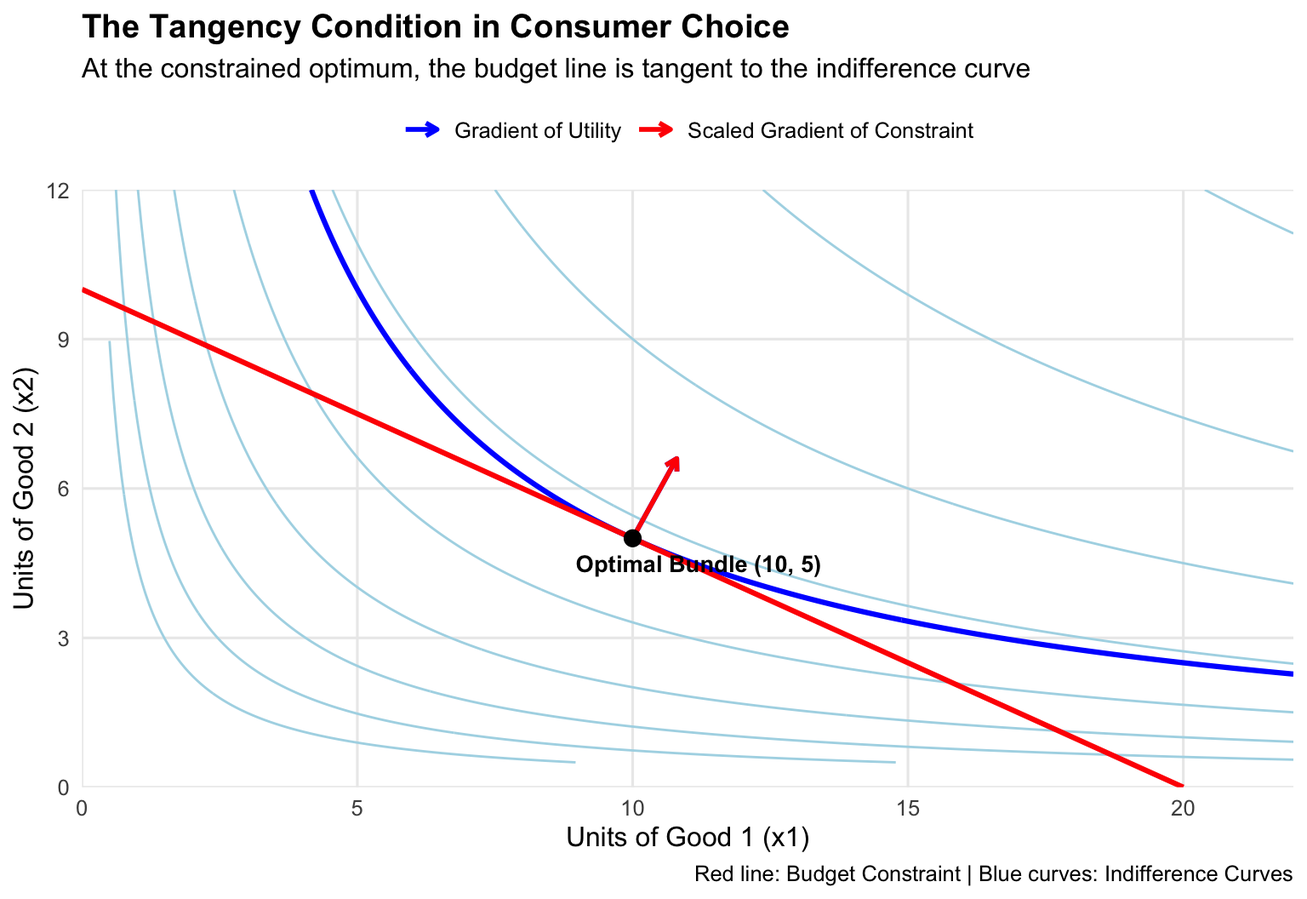
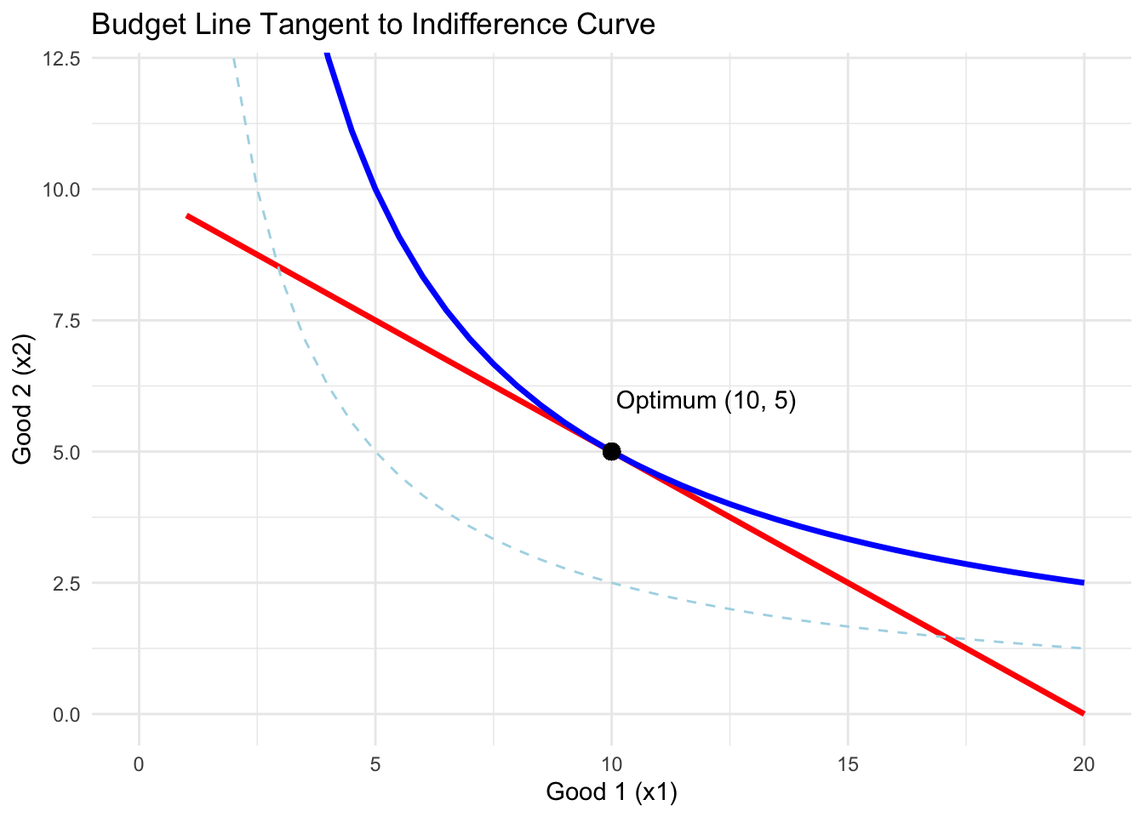
1

diff --git a/docs/blog/posts/post1/Untitled.html b/docs/blog/posts/post1/Untitled.html
@@ -8,7 +8,7 @@
 
 <meta name="dcterms.date" content="2026-09-12">
 
-<title>The Geometry of Scarcity: Demystifying Lagrange Multipliers – Student Name</title>
+<title>Why Lagrange Multipliers Actually Make Sense – Student Name</title>
 <style>
 code{white-space: pre-wrap;}
 span.smallcaps{font-variant: small-caps;}
@@ -185,7 +185,7 @@ window.Quarto = {
 
 <header id="title-block-header" class="quarto-title-block default">
 <div class="quarto-title">
-<h1 class="title">The Geometry of Scarcity: Demystifying Lagrange Multipliers</h1>
+<h1 class="title">Why Lagrange Multipliers Actually Make Sense</h1>
   <div class="quarto-categories">
     <div class="quarto-category">personal</div>
     <div class="quarto-category">data-science</div>
@@ -212,90 +212,51 @@ window.Quarto = {
 </header>
 
 
-<p>If you took multivariable calculus or intermediate microeconomics, you almost certainly ran into constrained optimization. Whether you were trying to maximize utility with a tight budget or minimize production costs subject to an output target, your professor probably gave you a standard recipe: take your objective function, set up an auxiliary equation with an extra variable <span class="math inline">\(\lambda\)</span>, take partial derivatives, set them to zero, and solve.</p>
-<p>When I first learned this, it felt like an arbitrary algebraic trick. Why does introducing a phantom variable suddenly turn a difficult constrained problem into a simple unconstrained one? And what on earth is <span class="math inline">\(\lambda\)</span> supposed to mean?</p>
-<p>To understand what the Lagrangian is actually doing, it helps to throw away the algebra for a moment and picture a topographic map.</p>
-<p>Imagine hiking up a hill. Your elevation at any point <span class="math inline">\((x_1, x_2)\)</span> is determined by the mountain’s height <span class="math inline">\(f(x_1, x_2)\)</span>, and you want to reach the highest possible point. But there is a catch: you are legally required to stay on a paved walking path given by the constraint <span class="math inline">\(g(x_1, x_2) = c\)</span>.</p>
-<p>Now, imagine walking along that path. If the path cuts across an elevation contour line at an angle, you are either going uphill or downhill. As long as the path continues to cross contour lines, you can gain elevation simply by taking another step forward.</p>
-<p>The only point where you cannot climb any higher while staying on the path is where the path runs perfectly parallel to an elevation contour line. At that exact point, stepping either forward or backward sends you downhill. The path and the contour line touch, sharing a single tangent.</p>
-<p>In vector calculus, the gradient vector <span class="math inline">\(\nabla f = (\frac{\partial f}{\partial x_1}, \frac{\partial f}{\partial x_2})\)</span> points in the direction of steepest ascent, which is always perpendicular to the contour lines. Similarly, <span class="math inline">\(\nabla g\)</span> is perpendicular to the path. Since the path and the contour line are tangent at the optimum, their perpendicular vectors must point in the exact same direction:</p>
-<p><span class="math display">\[\nabla f(x_1^*, x_2^*) = \lambda \nabla g(x_1^*, x_2^*)\]</span></p>
-<p>Here, <span class="math inline">\(\lambda\)</span> is not magic. It is simply the scalar multiplier that stretches or shrinks one gradient vector to match the length of the other. The Lagrangian function <span class="math inline">\(\mathcal{L}\)</span> is just an algebraic shorthand designed so its first-order conditions enforce this exact geometric tangency.</p>
-<p>The technique was originally developed in 1788 by Joseph-Louis Lagrange in his classic treatise <em>Mécanique Analytique</em>. Lagrange was solving physical problems, such as particles constrained to move along rigid surfaces. More than a century later, economists—most notably Paul Samuelson in his 1947 <em>Foundations of Economic Analysis</em>—realized that Lagrange had handed economics its most powerful mathematical tool. Economics, after all, is defined by scarcity.</p>
-<p>In economics, <span class="math inline">\(\lambda\)</span> earns a name of its own: the shadow price. By the Envelope Theorem:</p>
-<p><span class="math display">\[\lambda^* = \frac{\partial f^*(c)}{\partial c}\]</span></p>
-<p>This tells us that <span class="math inline">\(\lambda^*\)</span> measures the marginal increase in our maximized objective when the constraint is relaxed by one unit. In consumer choice, <span class="math inline">\(\lambda^*\)</span> is the marginal utility of income—how many extra utils you would get from an extra dollar of budget. In a firm’s cost-minimization problem, <span class="math inline">\(\lambda^*\)</span> is the marginal cost of producing one additional unit.</p>
-<p>To see this tangency clearly, we can simulate a standard consumer choice problem in R: maximizing <span class="math inline">\(U(x_1, x_2) = \ln(x_1) + \ln(x_2)\)</span> subject to <span class="math inline">\(2x_1 + 4x_2 = 40\)</span>. At the optimal bundle <span class="math inline">\((10, 5)\)</span>, the budget line is tangent to the indifference curve, and the gradient vectors point in identical directions.</p>
+<p>When I first saw Lagrange multipliers in microeconomics, it made zero sense to me. The textbook basically said: take your utility function, add this random Greek letter <span class="math inline">\(\lambda\)</span> multiplied by your budget constraint, set every derivative to zero, and somehow you get the right answer.</p>
+<p>It felt like a cheap math trick. Why are we adding an imaginary variable <span class="math inline">\(\lambda\)</span>? And why does taking derivatives of this weird new equation give us the optimal basket of goods?</p>
+<p>It only clicked for me once I stopped looking at the algebra and started picturing a simple graph.</p>
+<p>Think about hiking on a hill. You want to get as high up as possible (maximize your utility <span class="math inline">\(U(x_1, x_2)\)</span>). But there is a fence across the hill that you cannot cross (your budget constraint).</p>
+<p>If you walk along the fence and cross an elevation contour line at an angle, you are still going uphill or downhill. That means you can always reach a higher point just by taking another step along the fence.</p>
+<p>The only point where you cannot climb any higher is where the fence just barely touches an elevation contour line without crossing it. In other words, the fence and the contour curve are perfectly tangent.</p>
+<p>At that exact spot, the slope of your budget line equals the slope of your indifference curve:</p>
+<p><span class="math display">\[\frac{MU_1}{MU_2} = \frac{p_1}{p_2}\]</span></p>
+<p>The multiplier <span class="math inline">\(\lambda\)</span> is just the number that balances the marginal benefit of each good with its price:</p>
+<p><span class="math display">\[\frac{MU_1}{p_1} = \frac{MU_2}{p_2} = \lambda\]</span></p>
+<p>In economics, <span class="math inline">\(\lambda\)</span> is called the shadow price. It tells you how much extra utility you would get if your budget increased by one dollar.</p>
+<p>To see this clearly, here is a simple plot of a consumer maximizing utility <span class="math inline">\(U = x_1 \cdot x_2\)</span> with a budget constraint <span class="math inline">\(2x_1 + 4x_2 = 40\)</span>. The optimal choice is <span class="math inline">\(x_1 = 10\)</span> and <span class="math inline">\(x_2 = 5\)</span>.</p>
 <div class="cell">
 <div class="sourceCode cell-code" id="cb1"><pre class="sourceCode r code-with-copy"><code class="sourceCode r"><span id="cb1-1"><a href="#cb1-1" aria-hidden="true" tabindex="-1"></a><span class="fu">library</span>(ggplot2)</span>
-<span id="cb1-2"><a href="#cb1-2" aria-hidden="true" tabindex="-1"></a><span class="fu">library</span>(dplyr)</span>
-<span id="cb1-3"><a href="#cb1-3" aria-hidden="true" tabindex="-1"></a></span>
-<span id="cb1-4"><a href="#cb1-4" aria-hidden="true" tabindex="-1"></a>grid_df <span class="ot">&lt;-</span> <span class="fu">expand.grid</span>(</span>
-<span id="cb1-5"><a href="#cb1-5" aria-hidden="true" tabindex="-1"></a>  <span class="at">x1 =</span> <span class="fu">seq</span>(<span class="fl">0.5</span>, <span class="dv">22</span>, <span class="at">length.out =</span> <span class="dv">300</span>),</span>
-<span id="cb1-6"><a href="#cb1-6" aria-hidden="true" tabindex="-1"></a>  <span class="at">x2 =</span> <span class="fu">seq</span>(<span class="fl">0.5</span>, <span class="dv">12</span>, <span class="at">length.out =</span> <span class="dv">300</span>)</span>
-<span id="cb1-7"><a href="#cb1-7" aria-hidden="true" tabindex="-1"></a>) <span class="sc">%&gt;%</span></span>
-<span id="cb1-8"><a href="#cb1-8" aria-hidden="true" tabindex="-1"></a>  <span class="fu">mutate</span>(<span class="at">U =</span> <span class="fu">log</span>(x1) <span class="sc">+</span> <span class="fu">log</span>(x2))</span>
-<span id="cb1-9"><a href="#cb1-9" aria-hidden="true" tabindex="-1"></a></span>
-<span id="cb1-10"><a href="#cb1-10" aria-hidden="true" tabindex="-1"></a>opt_x1 <span class="ot">&lt;-</span> <span class="dv">10</span></span>
-<span id="cb1-11"><a href="#cb1-11" aria-hidden="true" tabindex="-1"></a>opt_x2 <span class="ot">&lt;-</span> <span class="dv">5</span></span>
-<span id="cb1-12"><a href="#cb1-12" aria-hidden="true" tabindex="-1"></a>opt_U  <span class="ot">&lt;-</span> <span class="fu">log</span>(opt_x1) <span class="sc">+</span> <span class="fu">log</span>(opt_x2)</span>
-<span id="cb1-13"><a href="#cb1-13" aria-hidden="true" tabindex="-1"></a></span>
-<span id="cb1-14"><a href="#cb1-14" aria-hidden="true" tabindex="-1"></a>budget_df <span class="ot">&lt;-</span> <span class="fu">data.frame</span>(</span>
-<span id="cb1-15"><a href="#cb1-15" aria-hidden="true" tabindex="-1"></a>  <span class="at">x1 =</span> <span class="fu">seq</span>(<span class="dv">0</span>, <span class="dv">20</span>, <span class="at">length.out =</span> <span class="dv">100</span>)</span>
-<span id="cb1-16"><a href="#cb1-16" aria-hidden="true" tabindex="-1"></a>) <span class="sc">%&gt;%</span></span>
-<span id="cb1-17"><a href="#cb1-17" aria-hidden="true" tabindex="-1"></a>  <span class="fu">mutate</span>(<span class="at">x2 =</span> (<span class="dv">40</span> <span class="sc">-</span> <span class="dv">2</span> <span class="sc">*</span> x1) <span class="sc">/</span> <span class="dv">4</span>)</span>
-<span id="cb1-18"><a href="#cb1-18" aria-hidden="true" tabindex="-1"></a></span>
-<span id="cb1-19"><a href="#cb1-19" aria-hidden="true" tabindex="-1"></a>grad_df <span class="ot">&lt;-</span> <span class="fu">data.frame</span>(</span>
-<span id="cb1-20"><a href="#cb1-20" aria-hidden="true" tabindex="-1"></a>  <span class="at">x    =</span> <span class="fu">c</span>(opt_x1, opt_x1),</span>
-<span id="cb1-21"><a href="#cb1-21" aria-hidden="true" tabindex="-1"></a>  <span class="at">y    =</span> <span class="fu">c</span>(opt_x2, opt_x2),</span>
-<span id="cb1-22"><a href="#cb1-22" aria-hidden="true" tabindex="-1"></a>  <span class="at">xend =</span> <span class="fu">c</span>(opt_x1 <span class="sc">+</span> <span class="fl">0.8</span>, opt_x1 <span class="sc">+</span> <span class="fl">0.8</span>),</span>
-<span id="cb1-23"><a href="#cb1-23" aria-hidden="true" tabindex="-1"></a>  <span class="at">yend =</span> <span class="fu">c</span>(opt_x2 <span class="sc">+</span> <span class="fl">1.6</span>, opt_x2 <span class="sc">+</span> <span class="fl">1.6</span>),</span>
-<span id="cb1-24"><a href="#cb1-24" aria-hidden="true" tabindex="-1"></a>  <span class="at">Vector =</span> <span class="fu">c</span>(<span class="st">"Gradient of Utility"</span>, <span class="st">"Scaled Gradient of Constraint"</span>)</span>
-<span id="cb1-25"><a href="#cb1-25" aria-hidden="true" tabindex="-1"></a>)</span>
-<span id="cb1-26"><a href="#cb1-26" aria-hidden="true" tabindex="-1"></a></span>
-<span id="cb1-27"><a href="#cb1-27" aria-hidden="true" tabindex="-1"></a>p <span class="ot">&lt;-</span> <span class="fu">ggplot</span>() <span class="sc">+</span></span>
-<span id="cb1-28"><a href="#cb1-28" aria-hidden="true" tabindex="-1"></a>  <span class="fu">geom_contour</span>(<span class="at">data =</span> grid_df, <span class="fu">aes</span>(<span class="at">x =</span> x1, <span class="at">y =</span> x2, <span class="at">z =</span> U),</span>
-<span id="cb1-29"><a href="#cb1-29" aria-hidden="true" tabindex="-1"></a>               <span class="at">breaks =</span> <span class="fu">seq</span>(<span class="fl">1.5</span>, <span class="fl">5.5</span>, <span class="at">by =</span> <span class="fl">0.5</span>), <span class="at">color =</span> <span class="st">"lightblue"</span>, <span class="at">linewidth =</span> <span class="fl">0.5</span>) <span class="sc">+</span></span>
-<span id="cb1-30"><a href="#cb1-30" aria-hidden="true" tabindex="-1"></a>  <span class="fu">geom_contour</span>(<span class="at">data =</span> grid_df, <span class="fu">aes</span>(<span class="at">x =</span> x1, <span class="at">y =</span> x2, <span class="at">z =</span> U),</span>
-<span id="cb1-31"><a href="#cb1-31" aria-hidden="true" tabindex="-1"></a>               <span class="at">breaks =</span> opt_U, <span class="at">color =</span> <span class="st">"blue"</span>, <span class="at">linewidth =</span> <span class="fl">1.1</span>) <span class="sc">+</span></span>
-<span id="cb1-32"><a href="#cb1-32" aria-hidden="true" tabindex="-1"></a>  <span class="fu">geom_line</span>(<span class="at">data =</span> budget_df, <span class="fu">aes</span>(<span class="at">x =</span> x1, <span class="at">y =</span> x2), </span>
-<span id="cb1-33"><a href="#cb1-33" aria-hidden="true" tabindex="-1"></a>            <span class="at">color =</span> <span class="st">"red"</span>, <span class="at">linewidth =</span> <span class="fl">1.1</span>) <span class="sc">+</span></span>
-<span id="cb1-34"><a href="#cb1-34" aria-hidden="true" tabindex="-1"></a>  <span class="fu">geom_segment</span>(<span class="at">data =</span> grad_df, <span class="fu">aes</span>(<span class="at">x =</span> x, <span class="at">y =</span> y, <span class="at">xend =</span> xend, <span class="at">yend =</span> yend, <span class="at">color =</span> Vector),</span>
-<span id="cb1-35"><a href="#cb1-35" aria-hidden="true" tabindex="-1"></a>               <span class="at">arrow =</span> <span class="fu">arrow</span>(<span class="at">length =</span> <span class="fu">unit</span>(<span class="fl">0.2</span>, <span class="st">"cm"</span>)), <span class="at">linewidth =</span> <span class="dv">1</span>) <span class="sc">+</span></span>
-<span id="cb1-36"><a href="#cb1-36" aria-hidden="true" tabindex="-1"></a>  <span class="fu">geom_point</span>(<span class="fu">aes</span>(<span class="at">x =</span> opt_x1, <span class="at">y =</span> opt_x2), <span class="at">color =</span> <span class="st">"black"</span>, <span class="at">size =</span> <span class="dv">3</span>) <span class="sc">+</span></span>
-<span id="cb1-37"><a href="#cb1-37" aria-hidden="true" tabindex="-1"></a>  <span class="fu">annotate</span>(<span class="st">"text"</span>, <span class="at">x =</span> opt_x1 <span class="sc">+</span> <span class="fl">1.2</span>, <span class="at">y =</span> opt_x2 <span class="sc">-</span> <span class="fl">0.5</span>, </span>
-<span id="cb1-38"><a href="#cb1-38" aria-hidden="true" tabindex="-1"></a>           <span class="at">label =</span> <span class="st">"Optimal Bundle (10, 5)"</span>, <span class="at">fontface =</span> <span class="st">"bold"</span>, <span class="at">size =</span> <span class="fl">3.6</span>) <span class="sc">+</span></span>
-<span id="cb1-39"><a href="#cb1-39" aria-hidden="true" tabindex="-1"></a>  <span class="fu">scale_color_manual</span>(<span class="at">values =</span> <span class="fu">c</span>(<span class="st">"Gradient of Utility"</span> <span class="ot">=</span> <span class="st">"blue"</span>, </span>
-<span id="cb1-40"><a href="#cb1-40" aria-hidden="true" tabindex="-1"></a>                                <span class="st">"Scaled Gradient of Constraint"</span> <span class="ot">=</span> <span class="st">"red"</span>)) <span class="sc">+</span></span>
-<span id="cb1-41"><a href="#cb1-41" aria-hidden="true" tabindex="-1"></a>  <span class="fu">coord_cartesian</span>(<span class="at">xlim =</span> <span class="fu">c</span>(<span class="dv">0</span>, <span class="dv">22</span>), <span class="at">ylim =</span> <span class="fu">c</span>(<span class="dv">0</span>, <span class="dv">12</span>), <span class="at">expand =</span> <span class="cn">FALSE</span>) <span class="sc">+</span></span>
-<span id="cb1-42"><a href="#cb1-42" aria-hidden="true" tabindex="-1"></a>  <span class="fu">labs</span>(</span>
-<span id="cb1-43"><a href="#cb1-43" aria-hidden="true" tabindex="-1"></a>    <span class="at">title =</span> <span class="st">"The Tangency Condition in Consumer Choice"</span>,</span>
-<span id="cb1-44"><a href="#cb1-44" aria-hidden="true" tabindex="-1"></a>    <span class="at">subtitle =</span> <span class="st">"At the constrained optimum, the budget line is tangent to the indifference curve"</span>,</span>
-<span id="cb1-45"><a href="#cb1-45" aria-hidden="true" tabindex="-1"></a>    <span class="at">x =</span> <span class="st">"Units of Good 1 (x1)"</span>,</span>
-<span id="cb1-46"><a href="#cb1-46" aria-hidden="true" tabindex="-1"></a>    <span class="at">y =</span> <span class="st">"Units of Good 2 (x2)"</span>,</span>
-<span id="cb1-47"><a href="#cb1-47" aria-hidden="true" tabindex="-1"></a>    <span class="at">color =</span> <span class="cn">NULL</span>,</span>
-<span id="cb1-48"><a href="#cb1-48" aria-hidden="true" tabindex="-1"></a>    <span class="at">caption =</span> <span class="st">"Red line: Budget Constraint | Blue curves: Indifference Curves"</span></span>
-<span id="cb1-49"><a href="#cb1-49" aria-hidden="true" tabindex="-1"></a>  ) <span class="sc">+</span></span>
-<span id="cb1-50"><a href="#cb1-50" aria-hidden="true" tabindex="-1"></a>  <span class="fu">theme_minimal</span>(<span class="at">base_size =</span> <span class="dv">12</span>) <span class="sc">+</span></span>
-<span id="cb1-51"><a href="#cb1-51" aria-hidden="true" tabindex="-1"></a>  <span class="fu">theme</span>(</span>
-<span id="cb1-52"><a href="#cb1-52" aria-hidden="true" tabindex="-1"></a>    <span class="at">legend.position =</span> <span class="st">"top"</span>,</span>
-<span id="cb1-53"><a href="#cb1-53" aria-hidden="true" tabindex="-1"></a>    <span class="at">plot.title =</span> <span class="fu">element_text</span>(<span class="at">face =</span> <span class="st">"bold"</span>),</span>
-<span id="cb1-54"><a href="#cb1-54" aria-hidden="true" tabindex="-1"></a>    <span class="at">panel.grid.minor =</span> <span class="fu">element_blank</span>()</span>
-<span id="cb1-55"><a href="#cb1-55" aria-hidden="true" tabindex="-1"></a>  )</span>
-<span id="cb1-56"><a href="#cb1-56" aria-hidden="true" tabindex="-1"></a></span>
-<span id="cb1-57"><a href="#cb1-57" aria-hidden="true" tabindex="-1"></a><span class="fu">dir.create</span>(<span class="st">"figures"</span>, <span class="at">showWarnings =</span> <span class="cn">FALSE</span>)</span>
-<span id="cb1-58"><a href="#cb1-58" aria-hidden="true" tabindex="-1"></a><span class="fu">ggsave</span>(<span class="st">"figures/lagrange_tangency.png"</span>, <span class="at">plot =</span> p, <span class="at">width =</span> <span class="fl">7.5</span>, <span class="at">height =</span> <span class="fl">5.5</span>, <span class="at">dpi =</span> <span class="dv">300</span>)</span>
-<span id="cb1-59"><a href="#cb1-59" aria-hidden="true" tabindex="-1"></a></span>
-<span id="cb1-60"><a href="#cb1-60" aria-hidden="true" tabindex="-1"></a><span class="fu">print</span>(p)</span></code><button title="Copy to Clipboard" class="code-copy-button"><i class="bi"></i></button></pre></div>
+<span id="cb1-2"><a href="#cb1-2" aria-hidden="true" tabindex="-1"></a></span>
+<span id="cb1-3"><a href="#cb1-3" aria-hidden="true" tabindex="-1"></a>x1 <span class="ot">&lt;-</span> <span class="fu">seq</span>(<span class="dv">1</span>, <span class="dv">20</span>, <span class="at">by =</span> <span class="fl">0.5</span>)</span>
+<span id="cb1-4"><a href="#cb1-4" aria-hidden="true" tabindex="-1"></a></span>
+<span id="cb1-5"><a href="#cb1-5" aria-hidden="true" tabindex="-1"></a>budget <span class="ot">&lt;-</span> (<span class="dv">40</span> <span class="sc">-</span> <span class="dv">2</span> <span class="sc">*</span> x1) <span class="sc">/</span> <span class="dv">4</span></span>
+<span id="cb1-6"><a href="#cb1-6" aria-hidden="true" tabindex="-1"></a>optimal_curve <span class="ot">&lt;-</span> <span class="dv">50</span> <span class="sc">/</span> x1</span>
+<span id="cb1-7"><a href="#cb1-7" aria-hidden="true" tabindex="-1"></a>lower_curve <span class="ot">&lt;-</span> <span class="dv">25</span> <span class="sc">/</span> x1</span>
+<span id="cb1-8"><a href="#cb1-8" aria-hidden="true" tabindex="-1"></a></span>
+<span id="cb1-9"><a href="#cb1-9" aria-hidden="true" tabindex="-1"></a>df <span class="ot">&lt;-</span> <span class="fu">data.frame</span>(x1, budget, optimal_curve, lower_curve)</span>
+<span id="cb1-10"><a href="#cb1-10" aria-hidden="true" tabindex="-1"></a></span>
+<span id="cb1-11"><a href="#cb1-11" aria-hidden="true" tabindex="-1"></a><span class="fu">ggplot</span>(df, <span class="fu">aes</span>(<span class="at">x =</span> x1)) <span class="sc">+</span></span>
+<span id="cb1-12"><a href="#cb1-12" aria-hidden="true" tabindex="-1"></a>  <span class="fu">geom_line</span>(<span class="fu">aes</span>(<span class="at">y =</span> budget), <span class="at">color =</span> <span class="st">"red"</span>, <span class="at">size =</span> <span class="fl">1.2</span>) <span class="sc">+</span></span>
+<span id="cb1-13"><a href="#cb1-13" aria-hidden="true" tabindex="-1"></a>  <span class="fu">geom_line</span>(<span class="fu">aes</span>(<span class="at">y =</span> optimal_curve), <span class="at">color =</span> <span class="st">"blue"</span>, <span class="at">size =</span> <span class="fl">1.2</span>) <span class="sc">+</span></span>
+<span id="cb1-14"><a href="#cb1-14" aria-hidden="true" tabindex="-1"></a>  <span class="fu">geom_line</span>(<span class="fu">aes</span>(<span class="at">y =</span> lower_curve), <span class="at">color =</span> <span class="st">"lightblue"</span>, <span class="at">linetype =</span> <span class="st">"dashed"</span>) <span class="sc">+</span></span>
+<span id="cb1-15"><a href="#cb1-15" aria-hidden="true" tabindex="-1"></a>  <span class="fu">geom_point</span>(<span class="fu">aes</span>(<span class="at">x =</span> <span class="dv">10</span>, <span class="at">y =</span> <span class="dv">5</span>), <span class="at">color =</span> <span class="st">"black"</span>, <span class="at">size =</span> <span class="dv">3</span>) <span class="sc">+</span></span>
+<span id="cb1-16"><a href="#cb1-16" aria-hidden="true" tabindex="-1"></a>  <span class="fu">annotate</span>(<span class="st">"text"</span>, <span class="at">x =</span> <span class="dv">12</span>, <span class="at">y =</span> <span class="dv">6</span>, <span class="at">label =</span> <span class="st">"Optimum (10, 5)"</span>) <span class="sc">+</span></span>
+<span id="cb1-17"><a href="#cb1-17" aria-hidden="true" tabindex="-1"></a>  <span class="fu">coord_cartesian</span>(<span class="at">xlim =</span> <span class="fu">c</span>(<span class="dv">0</span>, <span class="dv">20</span>), <span class="at">ylim =</span> <span class="fu">c</span>(<span class="dv">0</span>, <span class="dv">12</span>)) <span class="sc">+</span></span>
+<span id="cb1-18"><a href="#cb1-18" aria-hidden="true" tabindex="-1"></a>  <span class="fu">labs</span>(</span>
+<span id="cb1-19"><a href="#cb1-19" aria-hidden="true" tabindex="-1"></a>    <span class="at">title =</span> <span class="st">"Budget Line Tangent to Indifference Curve"</span>,</span>
+<span id="cb1-20"><a href="#cb1-20" aria-hidden="true" tabindex="-1"></a>    <span class="at">x =</span> <span class="st">"Good 1 (x1)"</span>,</span>
+<span id="cb1-21"><a href="#cb1-21" aria-hidden="true" tabindex="-1"></a>    <span class="at">y =</span> <span class="st">"Good 2 (x2)"</span></span>
+<span id="cb1-22"><a href="#cb1-22" aria-hidden="true" tabindex="-1"></a>  ) <span class="sc">+</span></span>
+<span id="cb1-23"><a href="#cb1-23" aria-hidden="true" tabindex="-1"></a>  <span class="fu">theme_minimal</span>()</span></code><button title="Copy to Clipboard" class="code-copy-button"><i class="bi"></i></button></pre></div>
 <div class="cell-output-display">
 <div>
 <figure class="figure">
-<p><img src="Untitled_files/figure-html/unnamed-chunk-1-1.png" class="img-fluid figure-img" width="768"></p>
+<p><img src="Untitled_files/figure-html/unnamed-chunk-1-1.png" class="img-fluid figure-img" width="672"></p>
 </figure>
 </div>
 </div>
 </div>
-<p>Lagrange multipliers are neither a bookkeeping gimmick nor arbitrary algebra. At its heart, the method is purely geometric: it finds the exact spot where level curves stop crossing the constraint and kiss it tangentially. In economics, this point of tangency does not just solve a math problem—it reveals the shadow price of scarcity itself.</p>
+<p>Lagrange multipliers look intimidating on paper, but they are just doing geometry behind the scenes. They find the exact point of tangency where you cannot squeeze any more utility out of your limited budget.</p>
 
 
 

diff --git a/docs/blog/index.html b/docs/blog/index.html
@@ -204,7 +204,7 @@ window.Quarto = {
 
 <div class="quarto-listing quarto-listing-container-default" id="listing-listing">
 <div class="list quarto-listing-default">
-<div class="quarto-post image-right" data-index="0" data-categories="personal,data-science" data-listing-date-sort="1789185600000" data-listing-file-modified-sort="1789371325813" data-listing-date-modified-sort="NaN" data-listing-reading-time-sort="6" data-listing-word-count-sort="1113">
+<div class="quarto-post image-right" data-index="0" data-categories="personal,data-science" data-listing-date-sort="1789185600000" data-listing-file-modified-sort="1789411732683" data-listing-date-modified-sort="NaN" data-listing-reading-time-sort="3" data-listing-word-count-sort="479">
 <div class="thumbnail">
 <p><a href="../blog/posts/post1/Untitled.html" class="no-external"></a></p><a href="../blog/posts/post1/Untitled.html" class="no-external">
 <p class="card-img-top"><img src="posts/post1/Untitled_files/figure-html/unnamed-chunk-1-1.png"  class="thumbnail-image card-img"/></p>
@@ -212,13 +212,13 @@ window.Quarto = {
 </div>
 <div class="body">
 <h3 class="no-anchor listing-title">
-<a href="../blog/posts/post1/Untitled.html" class="no-external">The Geometry of Scarcity: Demystifying Lagrange Multipliers</a>
+<a href="../blog/posts/post1/Untitled.html" class="no-external">Why Lagrange Multipliers Actually Make Sense</a>
 </h3>
 <div class="listing-subtitle">
 <a href="../blog/posts/post1/Untitled.html" class="no-external"></a>
 </div>
 <div class="listing-description">
-<a href="../blog/posts/post1/Untitled.html" class="no-external">If you took multivariable calculus or intermediate microeconomics, you almost certainly ran into constrained optimization. Whether you were trying to maximize utility with a…<span class="math inline"></span></a>
+<a href="../blog/posts/post1/Untitled.html" class="no-external">When I first saw Lagrange multipliers in microeconomics, it made zero sense to me. The textbook basically said: take your utility function, add this random Greek letter <span class="math inline">\(\la…</span></a>
 </div>
 </div>
 <div class="metadata">
